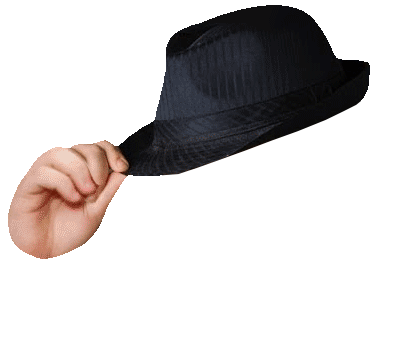
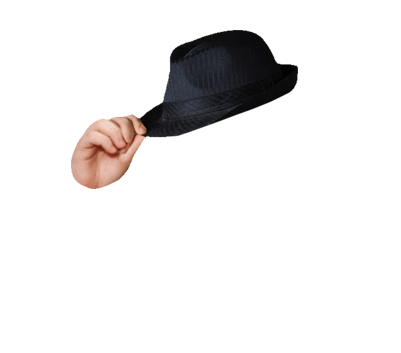
Add !mlady2

Changed region(s): [[0.0, 0.0, 0.9277, 0.7479]]

diff --git a/cogs/avatar_cog.py b/cogs/avatar_cog.py
@@ -230,7 +230,12 @@ class AvatarCog(BaseCog):
     @commands.command(name="mlady", aliases=["neckbeard"])
     async def mlady(self, ctx: commands.Context, user: MemberOrURLConverter=None) -> None:
         """https://i.imgur.com/2LQkErQ.png"""
-        await self._composite_images(ctx, "mlady.png", (200, 200), (161, 101), user, template_overlay=True)
+        await self._composite_images(ctx, "mlady.png", (275, 275), (86, 78), user, template_overlay=True)
+    
+    @commands.command(name="mlady2", aliases=["neckbeard2"])
+    async def mlady2(self, ctx: commands.Context, user: MemberOrURLConverter=None) -> None:
+        """https://i.imgur.com/2LQkErQ.png"""
+        await self._composite_images(ctx, "mlady2.png", (200, 200), (161, 101), user, template_overlay=True)
 
     @commands.command(name="loud", aliases=["loudest"])
     async def loud(self, ctx: commands.Context, user: MemberOrURLConverter=None) -> None:
